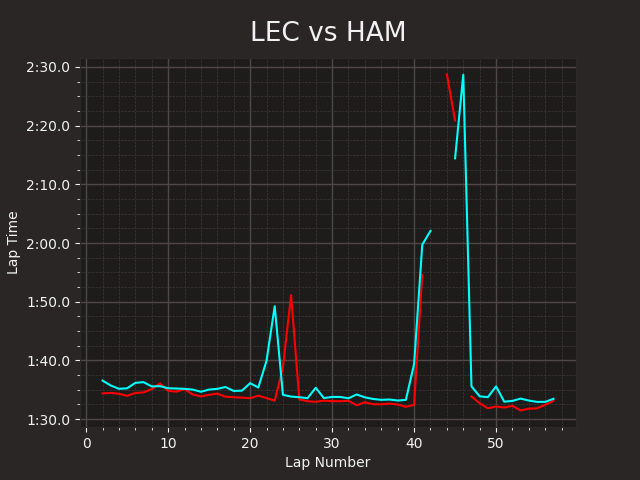
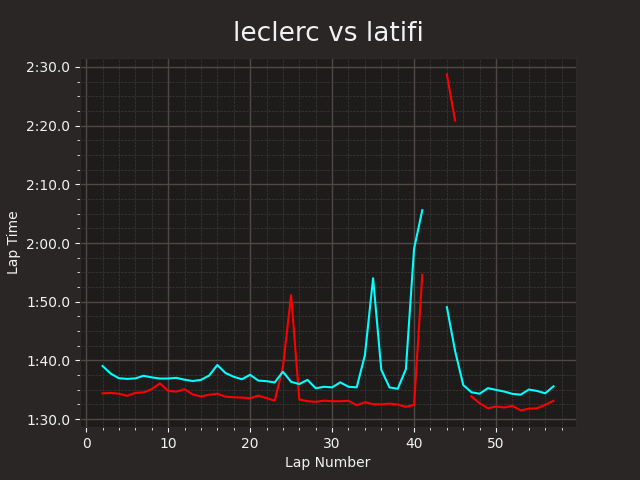
Form semi working

Changed region(s): [[0.1562, 0.4375, 0.6875, 0.8438], [0.6875, 0.1562, 0.875, 0.8438], [0.3438, 0.0312, 0.6562, 0.0938]]

diff --git a/actions/actions_driver.py b/actions/actions_driver.py
@@ -250,8 +250,8 @@ class ActionTelemetry(Action):
         d2 = race.laps.pick_driver(codes[driver2])
 
         fig, ax = plt.subplots()
-        ax.plot(lec['LapNumber'], d1['LapTime'], color='red')
-        ax.plot(ham['LapNumber'], d2['LapTime'], color='cyan')
+        ax.plot(d1['LapNumber'], d1['LapTime'], color='red')
+        ax.plot(d2['LapNumber'], d2['LapTime'], color='cyan')
         ax.set_title("{0} vs {1}".format(driver1, driver2))
         ax.set_xlabel("Lap Number")
         ax.set_ylabel("Lap Time")
@@ -261,7 +261,7 @@ class ActionTelemetry(Action):
             init_path = file.readlines()
         path = init_path[0] +"/img/telemetry.png"  #url da cambiare ogni volta (unica limitazione)
         dispatcher.utter_message(image = path)
-        return [] 
+        return [SlotSet("driver1t", None), SlotSet("driver2t", None), SlotSet("race_name_t", None)] 
 
 class ActionShowDriverConstructors(Action):
 
